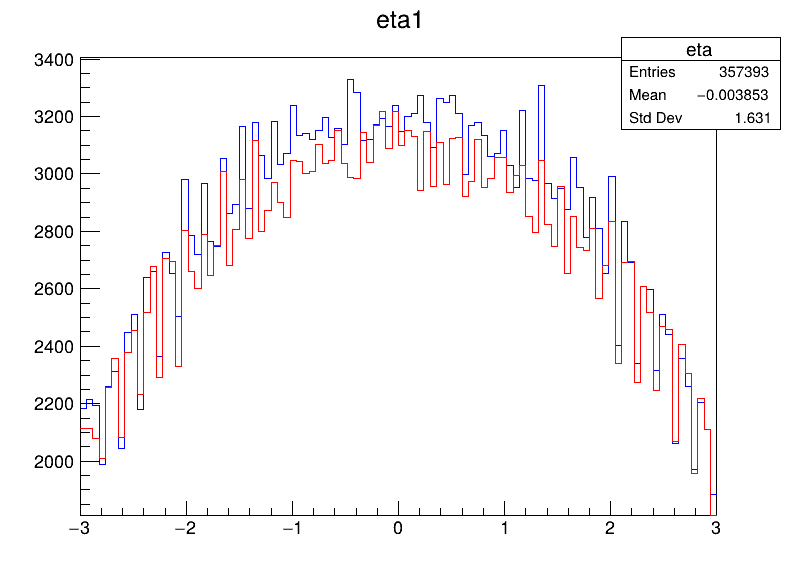
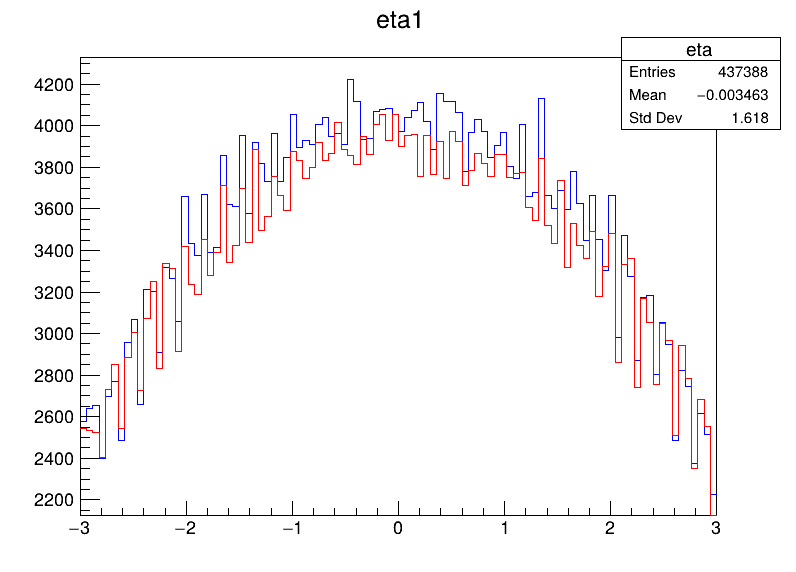
aggiornamenti minori e nuovi file

diff --git a/src/MCSel.cpp b/src/MCSel.cpp
@@ -4,14 +4,12 @@
 #include <chrono>
 
 #include <TSystem.h> 
-#include <TFile.h>
-#include <TTree.h>
-#include <Rtypes.h>
 #include <TCanvas.h>
 #include <TH1D.h>
 #include <TH2D.h>
-#include <TLorentzVector.h>
 #include <ROOT/RDataFrame.hxx>
+#include <ROOT/RVec.hxx>
+#include <Math/Vector4D.h>
 
 //Reconstruction at generator level of Z^0 decays
 
@@ -48,6 +46,7 @@ void MCSel(const char* fname, std::string outname, bool MT = true){
                                                 const ROOT::RVecF &eta, const ROOT::RVecF &phi, const ROOT::RVecF &mass){
 
                                                     ROOT::RVec<ROOT::Math::PtEtaPhiMVector> vecs;
+                                                    vecs.reserve(n);
 
                                                     for (UInt_t i = 0; i < n; i++){
                                                         
@@ -61,17 +60,12 @@ void MCSel(const char* fname, std::string outname, bool MT = true){
                                                     }
                                                     return vecs;
                                                 }, {"nGenPart", "GenPart_pdgId", "GenPart_genPartIdxMother", "GenPart_pt", "GenPart_eta", "GenPart_phi", "GenPart_mass"})
-                        .Define("DiMuonMass", [](const ROOT::RVec<ROOT::Math::PtEtaPhiMVector> &p,  const ROOT::RVec<int> &id, const ROOT::RVec<int> &mid){
+                        .Define("DiMuonMass", [](const ROOT::RVec<ROOT::Math::PtEtaPhiMVector> &p){
                                                     ROOT::RVec<Float_t> Minv;
                                                     for (size_t i = 0; i < p.size(); i++){
-                                                        for (size_t j = i + 1; j < p.size(); ++j){
-                                                            if (id[i] + id[j] == 0 && mid[i] == mid[j]){
-                                                                Minv.push_back((p[i] + p[j]).M());
-                                                            }
-                                                        }
-                                                    }
+                                                        for (size_t j = i + 1; j < p.size(); ++j){Minv.push_back((p[i] + p[j]).M());}}
                                                     return Minv;
-                        }, {"Muon_From_Z", "GenPart_pdgId", "GenPart_genPartIdxMother"})
+                        }, {"Muon_From_Z"})
                         .Filter([](const ROOT::RVec<Float_t>& masses) {
                                     for (auto m : masses) {
                                         if (std::abs(m - 91.1817) < 15) {return true;}
@@ -106,9 +100,9 @@ void MCSel(const char* fname, std::string outname, bool MT = true){
         TCanvas *c = new TCanvas((vars[i] + "canvas").c_str(), vars[i].c_str(), 800, 600);
 
         auto h_1 = new_df.Histo1D(ROOT::RDF::TH1DModel(vars[i].c_str(), (vars[i] + to_string(1)).c_str(), 100 ,bounds[i].first, bounds[i].second), 
-                                  ("Muon" + to_string(0) + "_" + vars[i]).c_str());
+                                  Form("Muon%d_%s", 0, vars[i].c_str()));
         auto h_2 = new_df.Histo1D(ROOT::RDF::TH1DModel(vars[i].c_str(), (vars[i] + to_string(2)).c_str(), 100 , bounds[i].first, bounds[i].second), 
-                                  ("Muon" + to_string(1) + "_" + vars[i]).c_str());
+                                 Form("Muon%d_%s", 1, vars[i].c_str()));
 
         h_1->SetLineColor(kBlue);
         h_2->SetLineColor(kRed);

diff --git a/src/DataSel.cpp b/src/DataSel.cpp
@@ -4,13 +4,11 @@
 #include <chrono>
 
 #include <TSystem.h> 
-#include <TFile.h>
-#include <TTree.h>
-#include <Rtypes.h>
 #include <TCanvas.h>
 #include <TH1D.h>
-#include <TLorentzVector.h>
 #include <ROOT/RDataFrame.hxx>
+#include <ROOT/RVec.hxx>
+#include <Math/Vector4D.h>
 
 //Macro to reconstruct Z^0 peak and obtain histograms of pt, eta and phi;
 
@@ -89,9 +87,9 @@ void DataSel(const char* fname, std::string outname, bool MT = true){
         TCanvas *c = new TCanvas((vars[i] + "canvas").c_str(), vars[i].c_str(), 800, 600);
 
         auto h_1 = new_df.Histo1D(ROOT::RDF::TH1DModel(vars[i].c_str(), (vars[i] + to_string(1)).c_str(), 100 ,bounds[i].first, bounds[i].second), 
-                                  ("Muon" + to_string(0) + "_" + vars[i]).c_str());
+                                   Form("Muon%d_%s", 0, vars[i].c_str()));
         auto h_2 = new_df.Histo1D(ROOT::RDF::TH1DModel(vars[i].c_str(), (vars[i] + to_string(2)).c_str(), 100 , bounds[i].first, bounds[i].second), 
-                                  ("Muon" + to_string(1) + "_" + vars[i]).c_str());
+                                   Form("Muon%d_%s", 1, vars[i].c_str()));
 
         h_1->SetLineColor(kBlue);
         h_2->SetLineColor(kRed);

diff --git a/src/Unfolding.cpp b/src/Unfolding.cpp
@@ -1,0 +1,17 @@
+#include "DataSel.h"
+#include "MCSel.h"
+
+//Unfolding procedure, it requires Montecarlo data
+
+void Unfolding(const char* fname){
+
+    //Montecarlo analysis
+
+    MCSel(fname, "Repo/graphs/", true);
+
+    //Data analysis
+
+    DataSel(fname, "Repo/graphs/", true);
+
+
+}

diff --git a/src/DataSel.h b/src/DataSel.h
@@ -1,0 +1,6 @@
+#ifndef DATASEL_H
+#define DATASEL_H
+
+void DataSel(const char* fname, std::string outname, bool MT = true);
+
+#endif 

diff --git a/src/MCSel.h b/src/MCSel.h
@@ -1,0 +1,6 @@
+#ifndef MCSEL_H
+#define MCSEL_H
+
+void MCSel(const char* fname, std::string outname, bool MT = true);
+
+#endif
